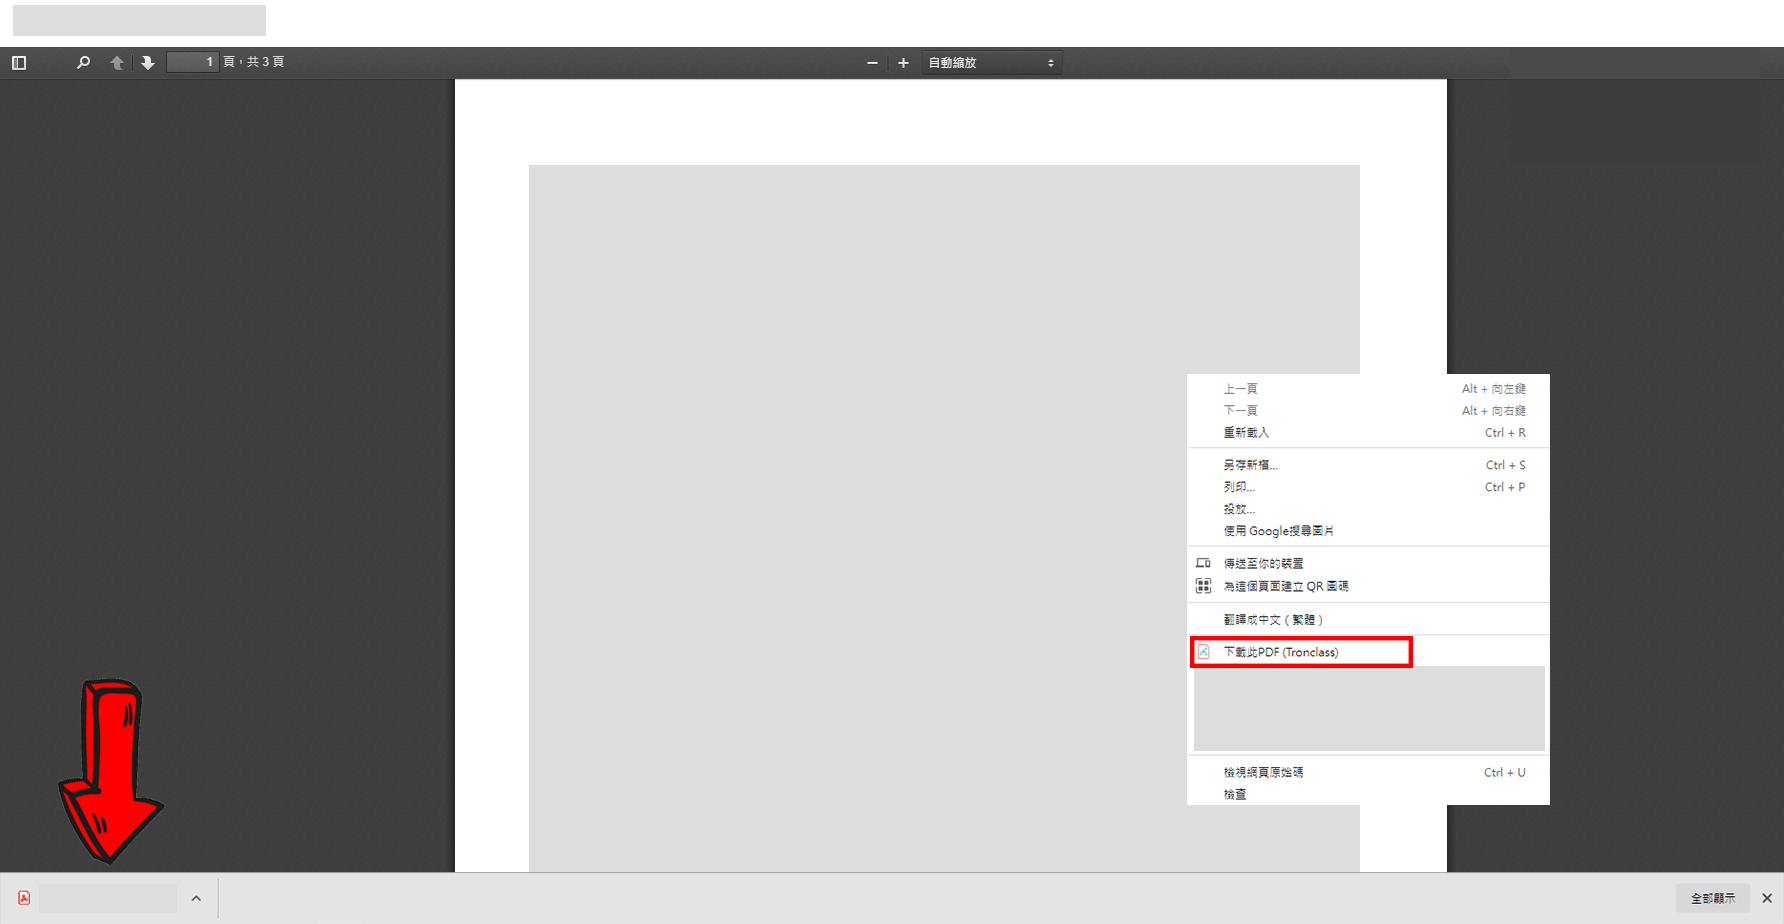
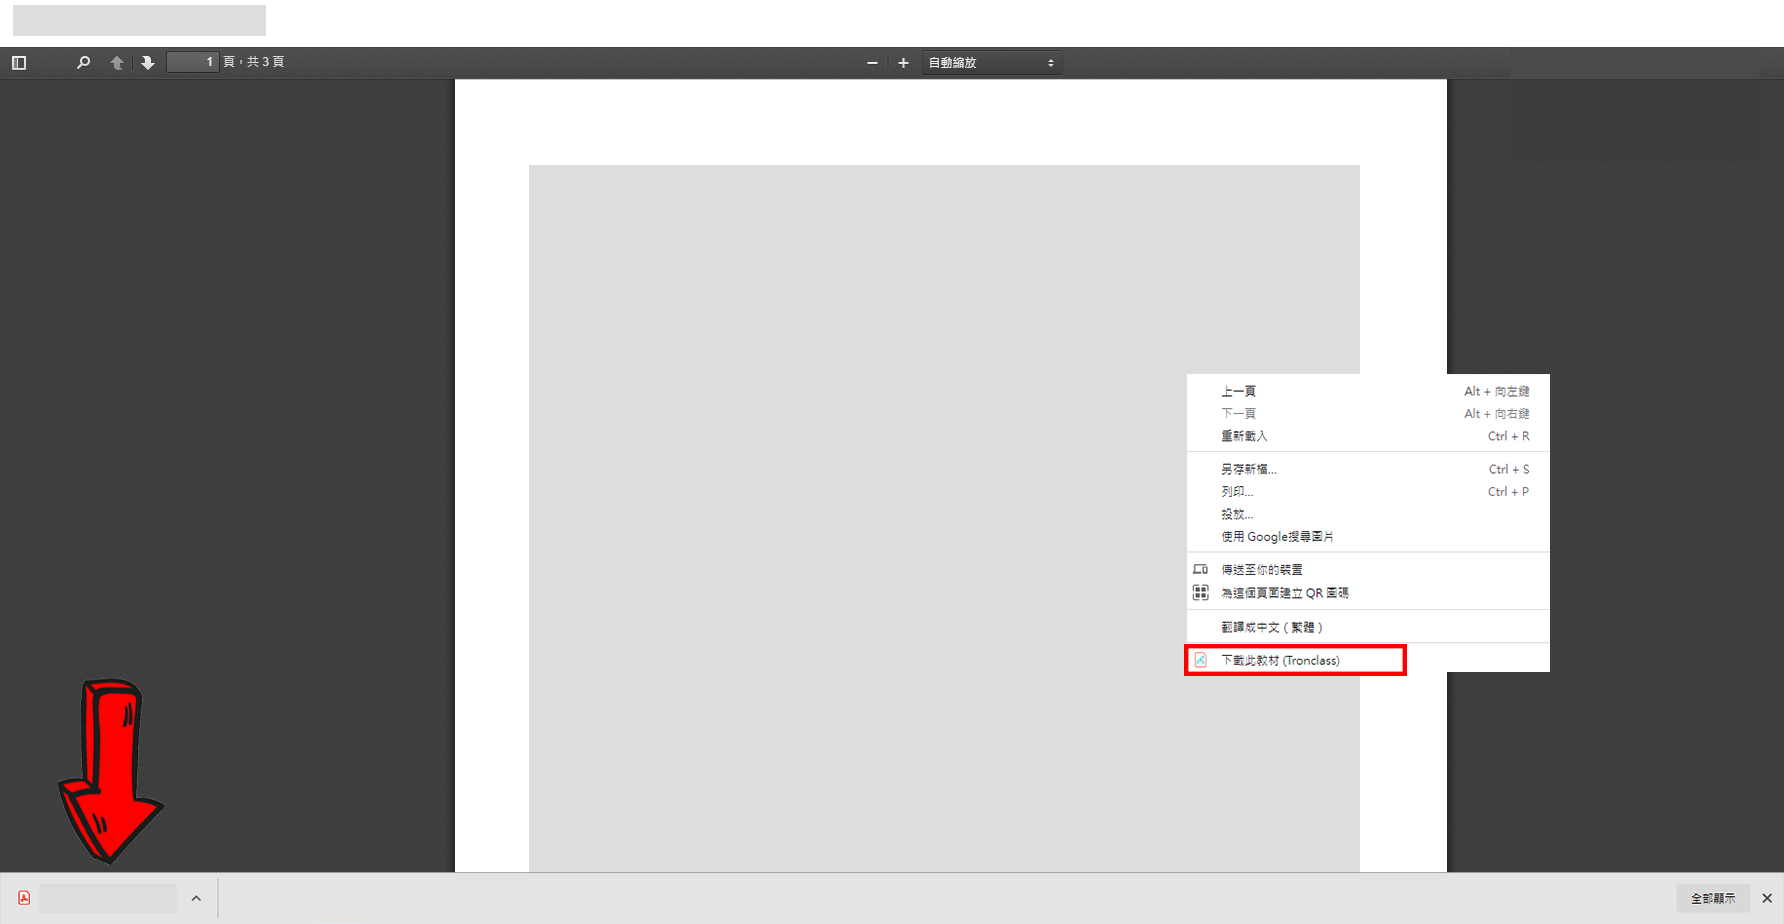
v1.4.1
fix: changed the title in the context menu

docs: changed the word and the picture for the download instruction

Changed region(s): [[0.6474, 0.3939, 0.8941, 0.8788], [0.8016, 0.3939, 0.8632, 0.5455]]

diff --git a/readme.html b/readme.html
@@ -45,7 +45,7 @@
                 <img src="img/teachingMaterialPage.png" alt="">
             </li>
             <li>
-                開啟教材後按下右上方插件圖示，或點擊右鍵選單的"下載此PDF (Tronclass)"即可下載
+                開啟教材後按下右上方插件圖示，或點擊右鍵選單的"下載此教材 (Tronclass)"即可下載
                 <img src="img/downloading.png" alt="">
                 <img src="img/downloading2.png" alt="">
             </li>

diff --git a/background.js b/background.js
@@ -12,7 +12,7 @@ chrome.contextMenus.create({
 
 chrome.contextMenus.create({
     id: "contextmenu_download",
-    title: "下載此PDF (Tronclass)",
+    title: "下載此教材 (Tronclass)",
     contexts: ['all']
 });
 
